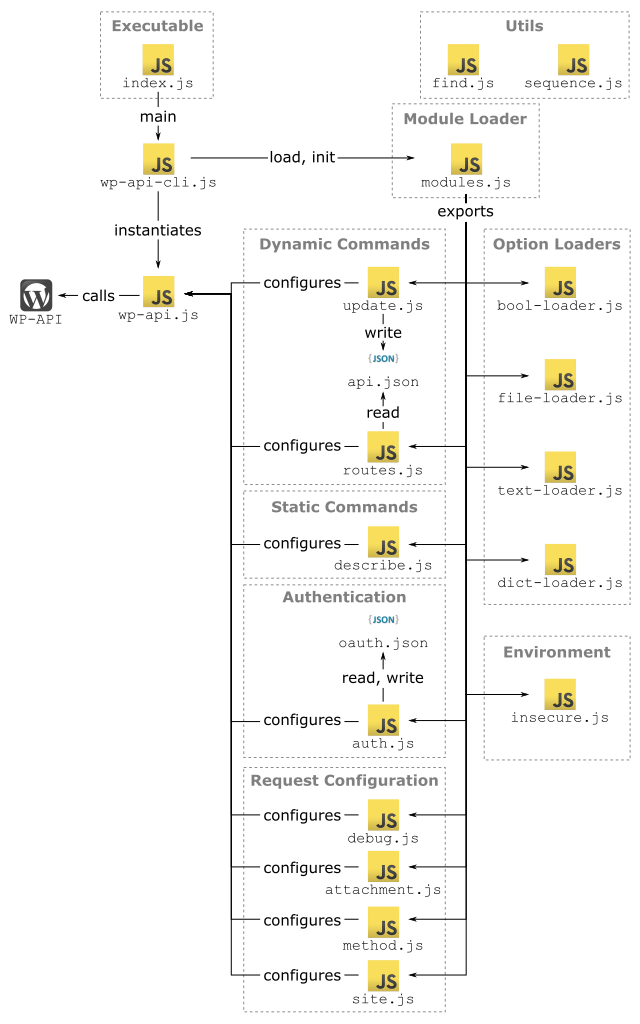
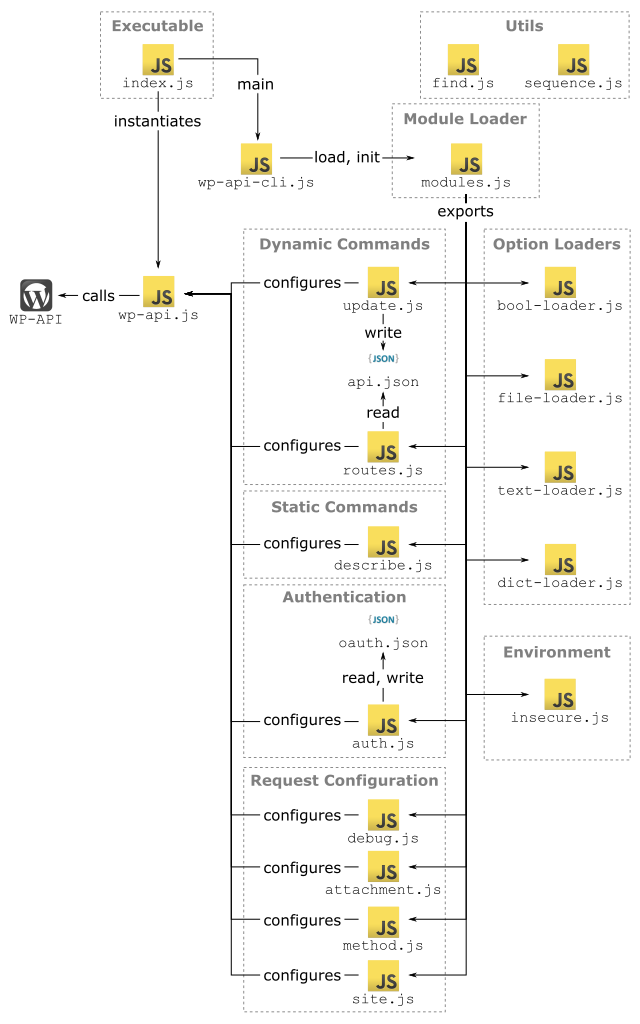
First draft of testing

diff --git a/test/test-server.js b/test/test-server.js
@@ -1,0 +1,97 @@
+'use-strict';
+
+var	fs    = require( 'fs' ),
+	cli   = require( '../lib/wp-api-cli' ),
+	WpApi = require( '../lib/wp-api' );
+
+function assertRequest( test, expected ) {
+	return function ( actual ) {
+		test.deepEqual( actual, expected );
+		test.done();
+	};
+}
+
+module.exports[ 'posts' ] = {
+
+	setUp: function ( next ) {
+		var	self = this;
+
+		this.context = {
+			oauthFile: __dirname + '/oauth.json',
+			apiDescriptionFile: __dirname + '/test-api.json',
+		};
+
+		this.request = function ( config, callback ) {
+			self.callback( config );
+			return callback( null, { statusCode: 200 }, '' );
+		};
+
+		this.wpApi = new WpApi( this.request );
+
+		return next();
+	},
+
+	'list': function ( test ) {
+		test.expect( 1 );
+
+		this.callback = assertRequest( test, {
+			method: 'GET',
+			url: 'http://localhost/trunk/wp-json/wp/v2/posts',
+			body: undefined,
+		});
+
+		cli.main( 'node wp-api-cli posts', this.context, this.wpApi );
+	},
+
+	'read': function ( test ) {
+		test.expect( 1 );
+
+		this.callback = assertRequest( test, {
+			method: 'GET',
+			url: 'http://localhost/trunk/wp-json/wp/v2/posts/3',
+			body: undefined,
+		});
+
+		cli.main( 'node wp-api-cli posts --id 3', this.context, this.wpApi );
+	},
+
+	'create': function ( test ) {
+		test.expect( 1 );
+
+		this.callback = assertRequest( test, {
+			method: 'POST',
+			url: 'http://localhost/trunk/wp-json/wp/v2/posts',
+			body: {
+				content: 'foo',
+				title: 'bar',
+			},
+		});
+
+		cli.main( 'node wp-api-cli posts -X POST --content foo --title bar', this.context, this.wpApi );
+	},
+
+	'trash': function ( test ) {
+		test.expect( 1 );
+
+		this.callback = assertRequest( test, {
+			method: 'DELETE',
+			url: 'http://localhost/trunk/wp-json/wp/v2/posts/5',
+			body: undefined,
+		});
+
+		cli.main( 'node wp-api-cli posts -X DELETE --id 5', this.context, this.wpApi );
+	},
+
+	'delete': function ( test ) {
+		test.expect( 1 );
+
+		this.callback = assertRequest( test, {
+			method: 'DELETE',
+			url: 'http://localhost/trunk/wp-json/wp/v2/posts/5?force=true',
+			body: undefined,
+		});
+
+		cli.main( 'node wp-api-cli posts -X DELETE --id 5 --force true', this.context, this.wpApi );
+	},
+
+};

diff --git a/lib/modules/routes.js b/lib/modules/routes.js
@@ -86,7 +86,7 @@ function extractOptions( routes ) {
 /**
  * Discovers the route to use.
  */
-function getRoute( cli, args, options, api ) {
+function getRoute( context, cli, args, options, api ) {
 	var	routes = cliRoutes.commands[ cli.command ].routes,
 		matchingRoutes = [],
 		argCount = 0;
@@ -158,8 +158,8 @@ function objectToQuery( objName, obj ) {
 /**
  * Builds the request to send to the API.
  */
-function getRequestConfig( cli, args, options, api ) {
-	var	route = getRoute( cli, args, options, api ),
+function getRequestConfig( context, cli, args, options, api ) {
+	var	route = getRoute( context, cli, args, options, api ),
 		routeObj = routes[ route ],
 		routeArgs = extractOptionsPath( route ),
 		endpointArgs = [],
@@ -239,8 +239,8 @@ function getRequestConfig( cli, args, options, api ) {
  *
  * Builds up a request and send it to the API.
  */
-function commandHandler( cli, args, options, api ) {
-	var requestConfig = getRequestConfig( cli, args, options, api );
+function commandHandler( context, cli, args, options, api ) {
+	var requestConfig = getRequestConfig( context, cli, args, options, api );
 	api.doRequest( requestConfig, function ( error, response ) {
 		if ( error ) {
 			return cli.fatal( error );
@@ -259,7 +259,7 @@ function withLength( text, length, filler ) {
 	return result;
 }
 
-function handleInfoCommand( cli, args, options, api ) {
+function handleInfoCommand( context, cli, args, options, api ) {
 	var	cmd,
 		cmdRoutes,
 		keyLength = 20,
@@ -392,8 +392,8 @@ function extractCommands( routes ) {
 /**
  * Loads routes from 'api.json' file to extract options and commands, if it exists.
  */
-function load( api, callback ) {
-	fs.readFile( __dirname + '/api.json', 'utf8', function ( error, fileContent ) {
+function load( context, api, callback ) {
+	fs.readFile( context.apiDescriptionFile, 'utf8', function ( error, fileContent ) {
 		var	site,
 			rootRoute,
 			baseUrl,

diff --git a/lib/wp-api-cli.js b/lib/wp-api-cli.js
@@ -5,14 +5,14 @@ var	cli      = require( 'cli'              ),
 	WpApi    = require( './wp-api'         ),
 	modules  = require( './modules'        );
 
-function processCommand( args, options, wpApi ) {
+function processCommand( context, args, options, wpApi ) {
 	modules.forEach( function ( mod ) {
 		var	key;
 		if ( mod.commands ) {
 			for ( key in mod.commands ) {
 				if ( mod.commands.hasOwnProperty( key ) ) {
 					if ( cli.command === key ) {
-						mod.commands[ key ].handler( cli, args, options, wpApi );
+						mod.commands[ key ].handler( context, cli, args, options, wpApi );
 						return;
 					}
 				}
@@ -21,7 +21,7 @@ function processCommand( args, options, wpApi ) {
 	});
 }
 
-function afterLoad( wpApi ) {
+function afterLoad( argv, context, wpApi ) {
 	var	options  = {},
 		commands = {};
 
@@ -55,28 +55,27 @@ function afterLoad( wpApi ) {
 	});
 
 	cli.setApp( 'wp-api-cli' );
+	cli.setArgv( argv );
 	cli.option_width = 38;
 	cli.parse( options, commands );
 
 	cli.main( function ( args, options ) {
-		sequence( modules, 'init', [ cli, args, options, wpApi ], function ( error ) {
+		sequence( modules, 'init', [ context, cli, args, options, wpApi ], function ( error ) {
 			if ( error ) {
 				return cli.fatal( 'Init Error: ' + error );
 			}
-			processCommand( args, options, wpApi );
+			processCommand( context, args, options, wpApi );
 		});
 	});
 }
 
-function main() {
-	var	wpApi = new WpApi();
-
-	sequence( modules, 'load', [ wpApi ], function ( error ) {
+function main( argv, context, wpApi ) {
+	sequence( modules, 'load', [ context, wpApi ], function ( error ) {
 		if ( error ) {
 			console.log( 'Load Error: ' + error );
 			return;
 		}
-		afterLoad( wpApi );
+		afterLoad( argv, context, wpApi );
 	});
 }
 

diff --git a/lib/modules/auth.js b/lib/modules/auth.js
@@ -6,15 +6,15 @@ var	fs       = require( 'fs'       ),
 
 	cliAuth;
 
-function resolveOAuthFile( options ) {
+function resolveOAuthFile( context, options ) {
 	if ( options.oauth_file ) {
 		return options.oauth_file;
 	}
-	return __dirname + '/oauth.json';
+	return context.oauthFile;
 }
 
-function init( cli, args, options, api, callback ) {
-	var	oauthFile = resolveOAuthFile( options );
+function init( context, cli, args, options, api, callback ) {
+	var	oauthFile = resolveOAuthFile( context, options );
 
 	/*
 	 * Use HTTP Basic Auth if the options are set.
@@ -53,7 +53,7 @@ function init( cli, args, options, api, callback ) {
 	});
 }
 
-function authenticate( cli, args, options, api ) {
+function authenticate( context, cli, args, options, api ) {
 	var	oauthConfig = {
 			oauth_consumer_key:    options.oauth_key,
 			oauth_consumer_secret: options.oauth_secret
@@ -117,7 +117,7 @@ function authenticate( cli, args, options, api ) {
 	});
 }
 
-function logout( cli, args, options, api ) {
+function logout( context, cli, args, options, api ) {
 	var	oauthFile = resolveOAuthFile( options );
 	fs.unlink( oauthFile, function ( error ) {
 		if ( error ) {

diff --git a/lib/modules/update.js b/lib/modules/update.js
@@ -13,12 +13,12 @@ module.exports = {
 	commands: {
 		update: {
 			label: 'Update CLI definitions.',
-			handler: function ( cli, args, options, api ) {
+			handler: function ( context, cli, args, options, api ) {
 				api.describe( function ( error, description ) {
 					if ( error ) {
 						return cli.fatal( 'Could not fetch API definitions: ' + error );
 					}
-					fs.writeFile( __dirname + '/api.json', JSON.stringify( description ), function ( error ) {
+					fs.writeFile( context.apiDescriptionFile, JSON.stringify( description ), function ( error ) {
 						if ( error ) {
 							return cli.fatal( 'Could not update API definitions: ' + error );
 						}

diff --git a/lib/modules/file-loader.js b/lib/modules/file-loader.js
@@ -11,7 +11,7 @@ var	fs       = require( 'fs'                ),
 	find     = require( '../utils/find'     ),
 	sequence = require( '../utils/sequence' );
 
-function fileLoader( options, callback ) {
+function fileLoader( context, options, callback ) {
 	var self = this;
 	fs.readFile( self.fileName, 'utf8', function ( error, content ) {
 		if ( error ) {
@@ -23,7 +23,7 @@ function fileLoader( options, callback ) {
 }
 
 module.exports = {
-	init: function ( cli, args, options, api, callback ) {
+	init: function ( context, cli, args, options, api, callback ) {
 		var	toReplace;
 
 		toReplace = [];

diff --git a/lib/wp-api.js b/lib/wp-api.js
@@ -9,9 +9,11 @@ var	request = require( 'request'     ),
 
 /**
  * Interacts with WordPress.org REST API v2.
+ *
+ * @param r Optional. Request library, used for mocking in tests.
  */
-function WpApi() {
-	this.request = request.defaults( { json: true } );
+function WpApi( r ) {
+	this.request = r || request.defaults( { json: true } );
 
 	/* Defaults. */
 	this.method = 'GET';

diff --git a/index.js b/index.js
@@ -2,6 +2,12 @@
 
 'use strict';
 
-var	cli = require( './lib/wp-api-cli.js' );
+var	cli   = require( './lib/wp-api-cli' ),
+	WpApi = require( './lib/wp-api'     ),
 
-cli.main();
+	context = {
+		oauthFile: __dirname + '/lib/modules/oauth.json',
+		apiDescriptionFile: __dirname + '/lib/modules/api.json',
+	};
+
+cli.main( process.argv, context, new WpApi() );

diff --git a/lib/modules/site.js b/lib/modules/site.js
@@ -4,7 +4,7 @@
  * Exports option '--site' and '-s' to set the URL of the site to connect to.
  */
 module.exports = {
-	init: function ( cli, args, options, api, callback ) {
+	init: function ( context, cli, args, options, api, callback ) {
 		if ( options.site ) {
 			api.setSite( options.site );
 		}

diff --git a/lib/modules/text-loader.js b/lib/modules/text-loader.js
@@ -10,7 +10,7 @@
 var	find = require( '../utils/find' );
 
 module.exports = {
-	init: function ( cli, args, options, api, callback ) {
+	init: function ( context, cli, args, options, api, callback ) {
 		var	toReplace = [];
 
 		find.prefix( options, 'text:', function ( key, value ) {

diff --git a/lib/modules/insecure.js b/lib/modules/insecure.js
@@ -2,7 +2,7 @@
 
 var cliInsecure;
 
-function init( cli, args, options, api, callback ) {
+function init( context, cli, args, options, api, callback ) {
 	/* Allow connections to SSL sites without certs */
 	if ( options.insecure ) {
 		process.env.NODE_TLS_REJECT_UNAUTHORIZED = '0';

diff --git a/lib/modules/dict-loader.js b/lib/modules/dict-loader.js
@@ -40,7 +40,7 @@ function dictToObject( dict ) {
 }
 
 module.exports = {
-	init: function ( cli, args, options, api, callback ) {
+	init: function ( context, cli, args, options, api, callback ) {
 		var	toReplace = [];
 
 		find.prefix( options, 'dict:', function ( key, value ) {
